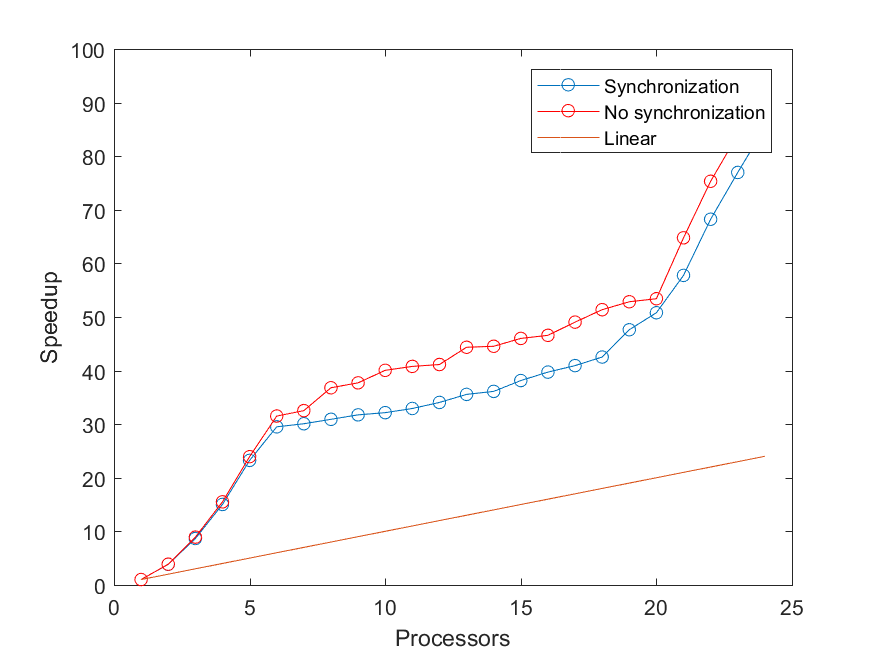
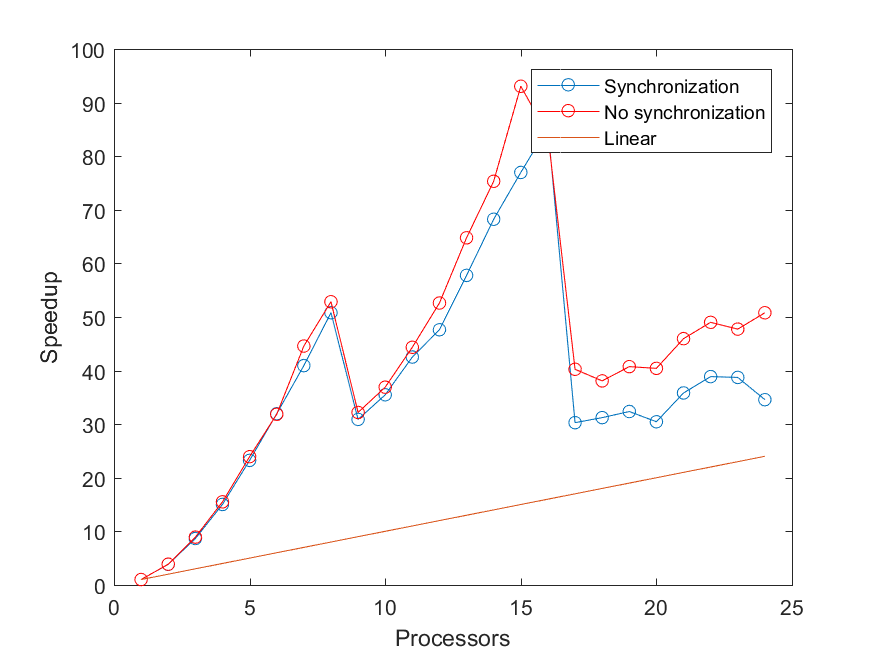
Problem med varierande tid för olika processer åtgärdat.

diff --git a/Project/program.cpp b/Project/program.cpp
@@ -123,8 +123,8 @@ int main ( int argc, char *argv[] )
 for(double t=0; t<tMax+1; t++)
 {
   MPI_Barrier(MPI_COMM_WORLD); /* IMPORTANT */
-  double start = MPI_Wtime(),end,globalStart,globalEnd;
-  MPI_Reduce(&start, &globalStart, 1, MPI_DOUBLE, MPI_MIN, 0, MPI_COMM_WORLD);
+  double start = MPI_Wtime(),time,globalTime;
+  // MPI_Reduce(&start, &globalStart, 1, MPI_DOUBLE, MPI_MIN, 0, MPI_COMM_WORLD);
 
   //Clearing all sets related to data structure
   xVals.clear();
@@ -240,11 +240,11 @@ for(double t=0; t<tMax+1; t++)
 
 
   //######################################################################
-  //Measuring runtime of one iteration. Sequentially
-  // end=MPI_Wtime();
-  // MPI_Reduce(&end, &globalEnd, 1, MPI_DOUBLE, MPI_MAX, 0, MPI_COMM_WORLD);
+  //Measuring runtime of one iteration in parallel.
+  // time=MPI_Wtime()-start;
+  // MPI_Reduce(&time, &globalTime, 1, MPI_DOUBLE, MPI_MAX, 0, MPI_COMM_WORLD);
   // if(rank==0)
-  //   iterationTimes.push_back(globalEnd-globalStart);
+  //   iterationTimes.push_back(globalTime);
   //######################################################################
 
   //synchronizing particles over all processors.
@@ -275,10 +275,10 @@ for(double t=0; t<tMax+1; t++)
 
   //######################################################################
   //Measuring runtime of one iteration in parallel.
-  end=MPI_Wtime();
-  MPI_Reduce(&end, &globalEnd, 1, MPI_DOUBLE, MPI_MAX, 0, MPI_COMM_WORLD);
+  time=MPI_Wtime()-start;
+  MPI_Reduce(&time, &globalTime, 1, MPI_DOUBLE, MPI_MAX, 0, MPI_COMM_WORLD);
   if(rank==0)
-    iterationTimes.push_back(globalEnd-globalStart);
+    iterationTimes.push_back(globalTime);
   //######################################################################
 }
 

diff --git a/Project/speedup.m b/Project/speedup.m
@@ -25,6 +25,7 @@ B3 = importdata(filename6);
 time_par=(A1+A2+A3)/3;
 time_seq=(B1+B2+B3)/3;
 
+%%
 cumSeq=1:numel(time_seq);
 cumSeq=cumSeq'.*time_seq;
 figure(1)
